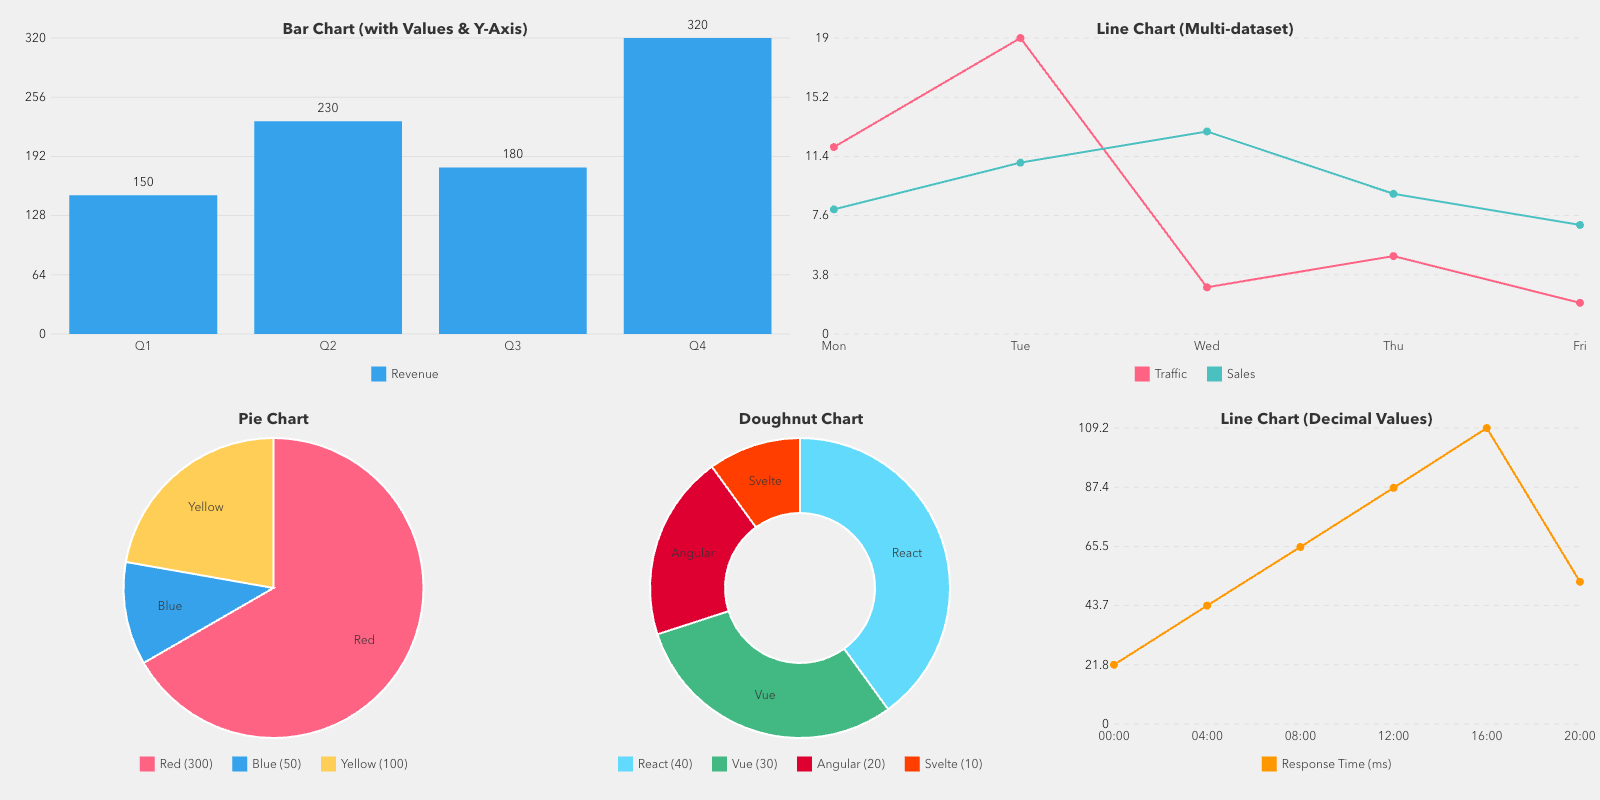
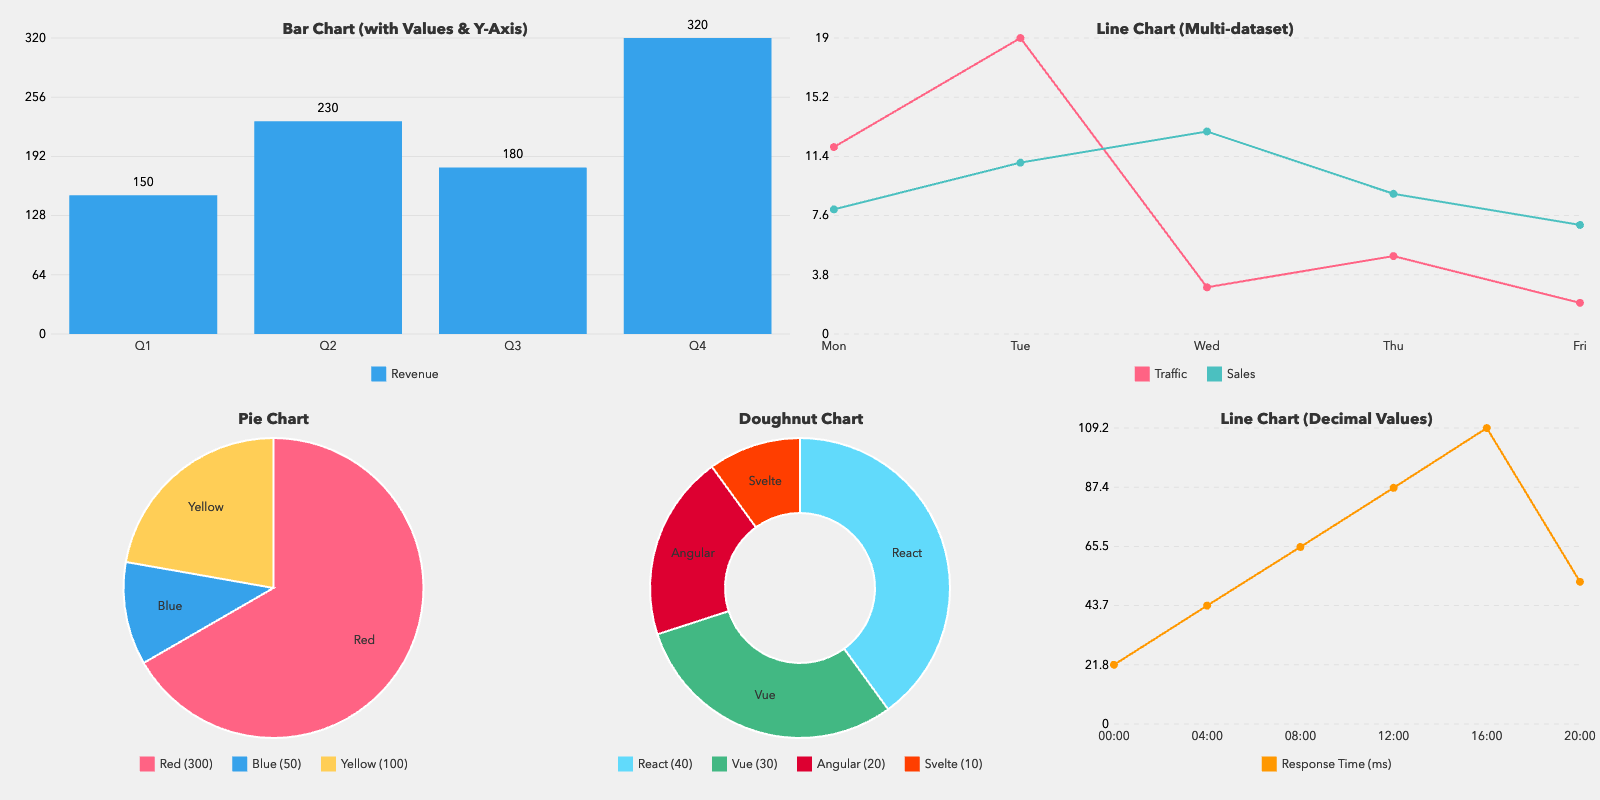
fix(deps)!: use meo-skia-canvas instead of phyron-skia-canvas
phyron-skia-canvas 3.6.0 renders several shapes wrong. Its migration from
skia-safe 0.88 to 0.99 swapped the mutable Path API for PathBuilder, and three
calls came out with different defaults than the ones they replaced -- each
compiles, reads as equivalent, and draws differently.

The one this library hits is arcs. `add_path` took an explicit Extend upstream;
the migration passed None, which means Append, so an arc started a new contour
instead of continuing the current one. Strokes were unaffected, which is why it
went unnoticed: it only shows when something is filled, and then the arc fills as
a separate region. drawRoundedRectPath in canvas.helper.ts builds its corners
from ctx.arc(), and layout.canvas.ts feeds that path to ctx.clip() -- so whole
panels rendered wrong, not just corners. Measured against upstream skia-canvas
before the fix: 44% of pixels differing on a filled arc-built rounded rect, 27%
on a clip through an arc.

Also fixed there and reachable from here: Path2D.roundRect starting at the wrong
corner, a conic with a non-positive weight drawing a curve rather than a line,
canvas colorType/colorSpace being accepted and ignored, ctx.saveLayer being
discarded by any transform inside it, and quadratic path construction -- 16k
lineTo calls went from 134 ms to 4 ms.

The three sample PNGs are regenerated. sample_nested_grids.png is the one the
bug was first noticed in.

Install gets simpler rather than harder: meo-skia-canvas ships its binary as one
[…]

diff --git a/tests/root.canvas.test.ts b/tests/root.canvas.test.ts
@@ -12,7 +12,7 @@ const pathMocks = vi.hoisted(() => ({
 }))
 
 vi.mock('node:path', () => pathMocks)
-vi.mock('phyron-skia-canvas', async () => (await import('@/__mocks__/phyron-skia-canvas.js')).__mocks__)
+vi.mock('meo-skia-canvas', async () => (await import('@/__mocks__/meo-skia-canvas.js')).__mocks__)
 vi.mock('node:fs', async () => (await import('@/__mocks__/node-fs.js')).__mocks__)
 vi.mock('@/canvas/layout.canvas.js', async () => (await import('@/__mocks__/layout.canvas.js')).__mocks__)
 vi.mock('@/canvas/image.canvas.js', async () => (await import('@/__mocks__/image.canvas.js')).__mocks__)
@@ -28,12 +28,12 @@ vi.mock('node:worker_threads', () => ({
   },
 }))
 
-let Canvas: typeof import('phyron-skia-canvas').Canvas
-let FontLibrary: typeof import('phyron-skia-canvas').FontLibrary
+let Canvas: typeof import('meo-skia-canvas').Canvas
+let FontLibrary: typeof import('meo-skia-canvas').FontLibrary
 let Root: typeof import('@/canvas/root.canvas.js').Root
 let RootNode: typeof import('@/canvas/root.canvas.js').RootNode
 let ColumnNode: typeof import('@/canvas/layout.canvas.js').ColumnNode
-let skiaCanvasMocks: typeof import('@/__mocks__/phyron-skia-canvas.js').__mocks__
+let skiaCanvasMocks: typeof import('@/__mocks__/meo-skia-canvas.js').__mocks__
 let fsMocks: typeof import('@/__mocks__/node-fs.js').__mocks__
 let layoutMocks: typeof import('@/__mocks__/layout.canvas.js').__mocks__
 let imageMocks: typeof import('@/__mocks__/image.canvas.js').__mocks__
@@ -42,7 +42,7 @@ describe('RootNode', () => {
   beforeEach(async () => {
     vi.resetModules()
 
-    skiaCanvasMocks = (await import('@/__mocks__/phyron-skia-canvas.js')).__mocks__
+    skiaCanvasMocks = (await import('@/__mocks__/meo-skia-canvas.js')).__mocks__
     fsMocks = (await import('@/__mocks__/node-fs.js')).__mocks__
     layoutMocks = (await import('@/__mocks__/layout.canvas.js')).__mocks__
     imageMocks = (await import('@/__mocks__/image.canvas.js')).__mocks__
@@ -59,7 +59,7 @@ describe('RootNode', () => {
     })
 
     // Re-import modules after resetting
-    const skiaCanvasModule = await import('phyron-skia-canvas')
+    const skiaCanvasModule = await import('meo-skia-canvas')
     Canvas = skiaCanvasModule.Canvas
     FontLibrary = skiaCanvasModule.FontLibrary
     const rootModule = await import('@/canvas/root.canvas.js')

diff --git a/tests/text.canvas.test.ts b/tests/text.canvas.test.ts
@@ -1,14 +1,14 @@
 import { vi } from 'vitest'
-import type { CanvasRenderingContext2D } from 'phyron-skia-canvas'
+import type { CanvasRenderingContext2D } from 'meo-skia-canvas'
 import Yoga, { Style } from '@/constant/common.const.js'
 import { ColumnNode } from '@/canvas/layout.canvas.js'
 import { createMockCanvasContext, createTestTextMetrics } from './helpers/mock-canvas-context.js'
 
-vi.mock('phyron-skia-canvas', () => import('@/__mocks__/phyron-skia-canvas.js'))
+vi.mock('meo-skia-canvas', () => import('@/__mocks__/meo-skia-canvas.js'))
 
 let TextNode: typeof import('@/canvas/text.canvas.js').TextNode
 let Text: typeof import('@/canvas/text.canvas.js').Text
-let skiaMockCtx: typeof import('@/__mocks__/phyron-skia-canvas.js').mockCanvasContext
+let skiaMockCtx: typeof import('@/__mocks__/meo-skia-canvas.js').mockCanvasContext
 
 const chartWidthPerChar = 8
 
@@ -42,7 +42,7 @@ async function renderText(node: InstanceType<typeof TextNode>, parentWidth: numb
 describe('TextNode & Text factory', () => {
   beforeEach(async () => {
     vi.resetModules()
-    ;({ mockCanvasContext: skiaMockCtx } = await import('@/__mocks__/phyron-skia-canvas.js'))
+    ;({ mockCanvasContext: skiaMockCtx } = await import('@/__mocks__/meo-skia-canvas.js'))
 
     skiaMockCtx.measureText.mockImplementation((text: string) => measureByCharLength(text))
 

diff --git a/tests/image.canvas.test.ts b/tests/image.canvas.test.ts
@@ -1,5 +1,5 @@
 import { vi, type MockInstance } from 'vitest'
-import type { CanvasRenderingContext2D } from 'phyron-skia-canvas'
+import type { CanvasRenderingContext2D } from 'meo-skia-canvas'
 import type { ImageProps } from '@/canvas/canvas.type.js'
 import { Direction } from 'yoga-layout'
 import { Style } from '@/constant/common.const.js'
@@ -11,7 +11,7 @@ const mockFileTypeFromBuffer = vi.fn<(buf: any) => Promise<any>>()
 const mockFileTypeFromFile = vi.fn<(path: any) => Promise<any>>()
 const mockReadFile = vi.fn<(path: any) => Promise<any>>()
 
-vi.mock('phyron-skia-canvas', () => ({
+vi.mock('meo-skia-canvas', () => ({
   loadImage: mockLoadImage,
   Image: vi.fn(),
   Canvas: vi.fn(),
@@ -69,7 +69,7 @@ describe('ImageNode & Image factory', () => {
     vi.resetModules()
 
     // Re-setup mocks after module reset
-    vi.doMock('phyron-skia-canvas', () => ({
+    vi.doMock('meo-skia-canvas', () => ({
       loadImage: mockLoadImage,
       Image: vi.fn(),
       Canvas: vi.fn(),

diff --git a/tests/use.disk.cache.test.ts b/tests/use.disk.cache.test.ts
@@ -34,7 +34,7 @@ global.fetch = mockFetch as any
 // Module mocks
 // ---------------------------------------------------------------------------
 
-vi.mock('phyron-skia-canvas', () => ({
+vi.mock('meo-skia-canvas', () => ({
   loadImage: mockLoadImage,
   Image: vi.fn(),
   Canvas: createMockCanvas(),
@@ -143,7 +143,7 @@ const TEST_KEY = 'abc123deadbeef'
 beforeEach(async () => {
   vi.resetModules()
 
-  vi.doMock('phyron-skia-canvas', () => ({
+  vi.doMock('meo-skia-canvas', () => ({
     loadImage: mockLoadImage,
     Image: vi.fn(),
     Canvas: createMockCanvas(),

diff --git a/rollup.config.js b/rollup.config.js
@@ -20,7 +20,7 @@ const common = {
   input: inputFiles,
   plugins: [tsconfigPaths(), nodeResolve({ exclude: 'node_modules/**' }), commonjs()],
   external: id => {
-    return ['phyron-skia-canvas', 'yoga-layout', 'lodash-es', 'tinycolor2', 'file-type', 'node:fs', 'path', 'node:worker_threads'].includes(id) || id.startsWith('tslib') || id.startsWith('comlink')
+    return ['meo-skia-canvas', 'yoga-layout', 'lodash-es', 'tinycolor2', 'file-type', 'node:fs', 'path', 'node:worker_threads'].includes(id) || id.startsWith('tslib') || id.startsWith('comlink')
   },
 }
 

diff --git a/src/canvas/root.canvas.ts b/src/canvas/root.canvas.ts
@@ -1,5 +1,5 @@
-import { Canvas, FontLibrary, type CanvasRenderingContext2D } from 'phyron-skia-canvas'
-import type { ExportFormat, ExportOptions, SaveOptions, RenderOptions, EngineDetails } from 'phyron-skia-canvas'
+import { Canvas, FontLibrary, type CanvasRenderingContext2D } from 'meo-skia-canvas'
+import type { ExportFormat, ExportOptions, SaveOptions, RenderOptions, EngineDetails } from 'meo-skia-canvas'
 import { createRequire } from 'node:module'
 import { ColumnNode, BoxNode, RowNode } from '@/canvas/layout.canvas.js'
 import type {

diff --git a/tests/helper.test.ts b/tests/helper.test.ts
@@ -2,7 +2,7 @@ import { drawBorders, drawRoundedRectPath, parseBorderRadius, parsePercentage } 
 import { extractFunctions, restoreFunctions, FN_MARKER } from '@/worker/comlink.pool.js'
 import * as YogaTypes from 'yoga-layout'
 import { Style } from '@/constant/common.const.js'
-import type { CanvasRenderingContext2D } from 'phyron-skia-canvas'
+import type { CanvasRenderingContext2D } from 'meo-skia-canvas'
 import { vi } from 'vitest'
 
 const createMockContext = () => {

diff --git a/src/worker/render.worker.ts b/src/worker/render.worker.ts
@@ -3,7 +3,7 @@ import { Comlink, nodeEndpoint } from '@/worker/comlink.setup.js'
 import { restoreFunctions } from '@/worker/comlink.pool.js'
 import { createCanvasHandlers } from '@/worker/canvas-handlers.js'
 import { RootNode } from '@/canvas/root.canvas.js'
-import type { Canvas } from 'phyron-skia-canvas'
+import type { Canvas } from 'meo-skia-canvas'
 import type { WorkerAPI, CallFn, SyncRequest, SyncResponse } from '@/worker/worker.types.js'
 
 if (!parentPort) {

diff --git a/src/canvas/image.canvas.ts b/src/canvas/image.canvas.ts
@@ -1,5 +1,5 @@
 import type { BaseProps, ImageProps, CanvasElement } from '@/canvas/canvas.type.js'
-import { type CanvasRenderingContext2D, Image as CanvasImage, loadImage } from 'phyron-skia-canvas'
+import { type CanvasRenderingContext2D, Image as CanvasImage, loadImage } from 'meo-skia-canvas'
 import { BoxNode } from '@/canvas/layout.canvas.js'
 import { drawRoundedRectPath, parseBorderRadius } from '@/canvas/canvas.helper.js'
 import { promises as fs } from 'fs'

diff --git a/tests/chart.canvas.test.ts b/tests/chart.canvas.test.ts
@@ -4,7 +4,7 @@ import { BoxNode } from '@/canvas/layout.canvas.js'
 import { extractFunctions, restoreFunctions } from '@/worker/comlink.pool.js'
 import type { CartesianChartData, PieChartDataPoint } from '@/canvas/canvas.type.js'
 import { Style } from '@/constant/common.const.js'
-import type { CanvasRenderingContext2D } from 'phyron-skia-canvas'
+import type { CanvasRenderingContext2D } from 'meo-skia-canvas'
 
 const createMockContext = () => {
   const ctx = {

diff --git a/src/canvas/chart.canvas.ts b/src/canvas/chart.canvas.ts
@@ -1,6 +1,6 @@
 import { BoxNode, RowNode } from '@/canvas/layout.canvas.js'
 import type { BaseProps, CartesianChartData, ChartDataset, ChartProps, ChartType, PieChartDataPoint, CanvasElement } from '@/canvas/canvas.type.js'
-import type { CanvasRenderingContext2D } from 'phyron-skia-canvas'
+import type { CanvasRenderingContext2D } from 'meo-skia-canvas'
 import { Style } from '@/constant/common.const.js'
 import { TextNode } from '@/canvas/text.canvas.js'
 

diff --git a/src/canvas/canvas.type.ts b/src/canvas/canvas.type.ts
@@ -2,7 +2,7 @@ import { BoxNode } from '@/canvas/layout.canvas.js'
 import type { TextNode } from '@/canvas/text.canvas.js'
 import type { ImageNode } from '@/canvas/image.canvas.js'
 import type { GridNode } from '@/canvas/grid.canvas.js'
-import type { FontVariantSetting } from 'phyron-skia-canvas'
+import type { FontVariantSetting } from 'meo-skia-canvas'
 import * as Style from '@/constant/common.const.js'
 
 export interface BaseProps {
